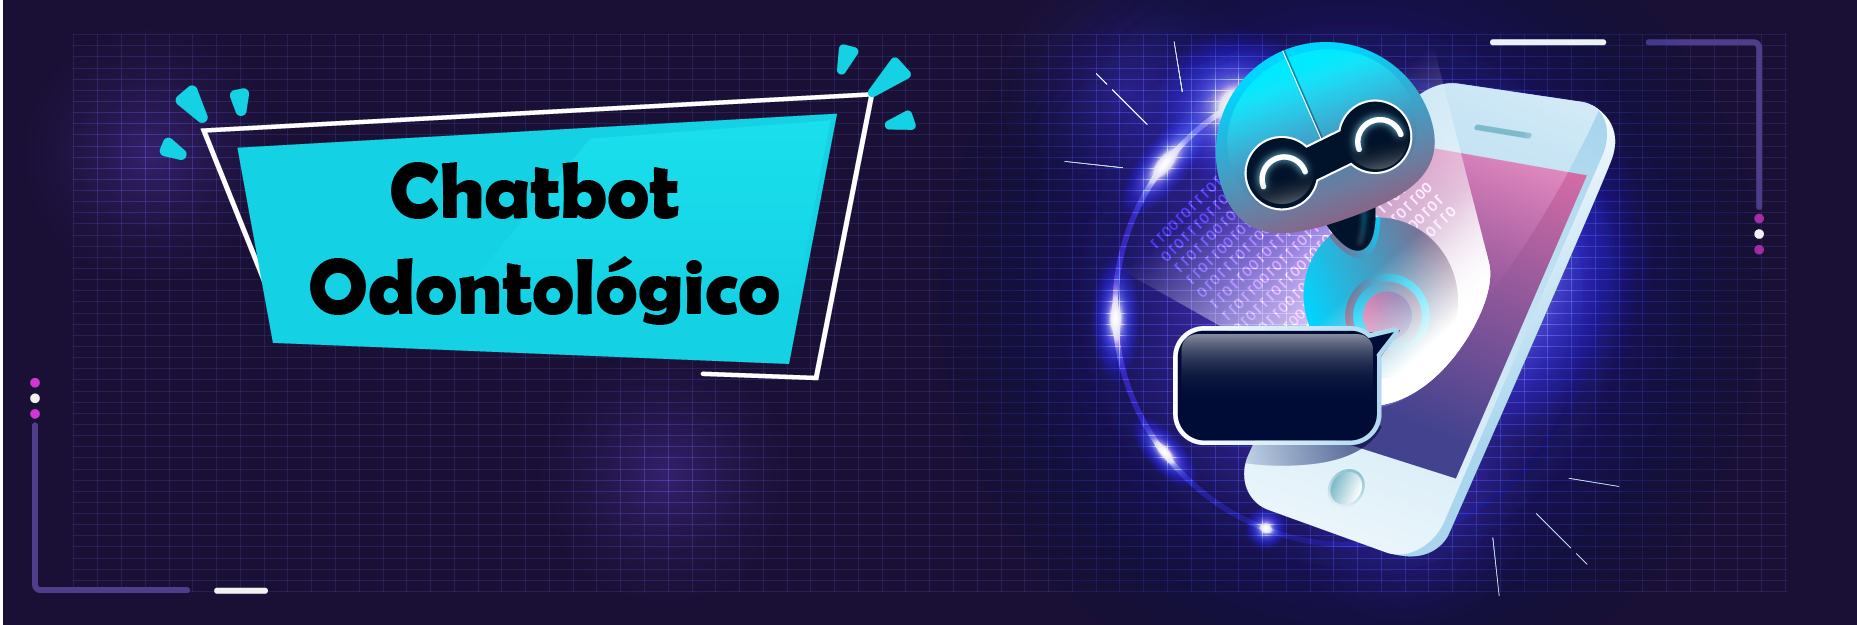
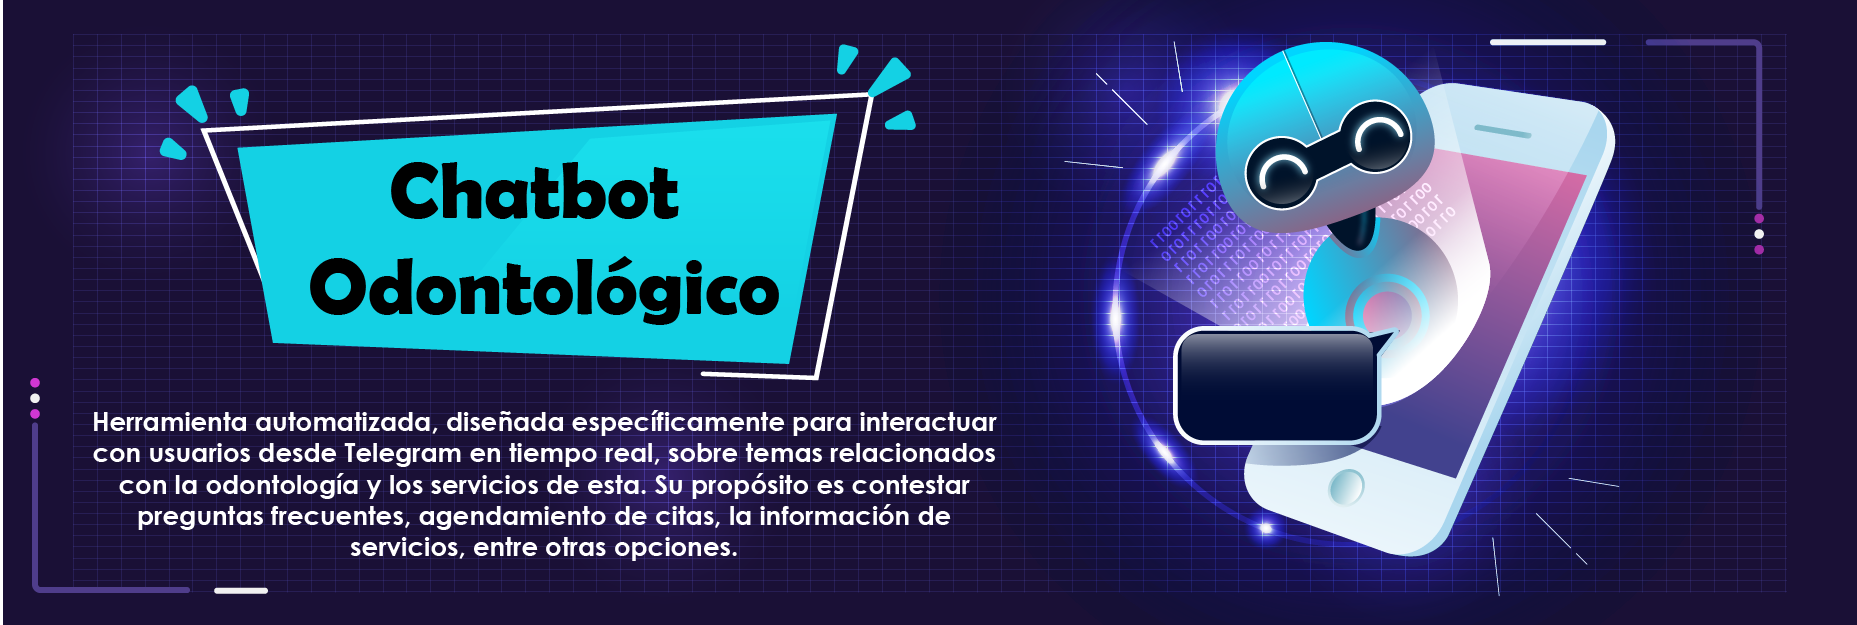
Actaulizacion Recurso 1 y cartas de presentación

Changed region(s): [[0.0312, 0.6688, 0.531, 0.912]]

diff --git a/src/app/cards/cards.page.html b/src/app/cards/cards.page.html
@@ -6,25 +6,42 @@
 
 <ion-content class="ion-padding" padding fullscreen>
   <h2>Bienvenido a Sección 1</h2>
-  <ion-button expand="full" href="/fivebot">Volver a Home</ion-button>
-
-  <ion-grid>  
+  
+  <!--<ion-grid fixed>  
     <ion-row> 
-      <ion-col size="12" >
+      <ion-col size="12" *ngFor="let c of [1,1,1 ];">
         <ion-card>
           <img alt="Silhouette of mountains" src="https://ionicframework.com/docs/img/demos/card-media.png" />
           <ion-card-header>
             <ion-card-title>Card Title</ion-card-title>
             <ion-card-subtitle>Card Subtitle</ion-card-subtitle>
           </ion-card-header>
-        
           <ion-card-content>
             Here's a small text description for the card content. Nothing more, nothing less.
           </ion-card-content>
         </ion-card>
       </ion-col>
     </ion-row>
+  </ion-grid>-->
+  
+  <ion-grid fixed>
+    <ion-row class="ion-justify-content-center">
+      <ion-col size="12" size-md="6" size-lg="4" *ngFor="let tarjeta of tarjetas">
+        <ion-card class="custom-card">
+          <img [src]="tarjeta.imagen" alt="Imagen de {{ tarjeta.titulo }}" />
+          <ion-card-header>
+            <ion-card-title>{{ tarjeta.titulo }}</ion-card-title>
+            <ion-card-subtitle>{{ tarjeta.subtitulo }}</ion-card-subtitle>
+          </ion-card-header>
+          <ion-card-content>
+            {{ tarjeta.descripcion }}
+          </ion-card-content>
+        </ion-card>
+      </ion-col>
+    </ion-row>
   </ion-grid>
+
+  <ion-button expand="full" href="/fivebot">Volver a Home</ion-button>
 
 </ion-content>
 

diff --git a/src/app/cards/cards.page.ts b/src/app/cards/cards.page.ts
@@ -16,5 +16,36 @@ export class CardsPage implements OnInit {
 
   ngOnInit() {
   }
-
+  tarjetas = [
+    {
+      titulo: "1Jardinería Inteligente",
+      subtitulo: "Monitorea tus plantas",
+      descripcion: "Usa sensores para saber cuándo regar.",
+      imagen: "https://ionicframework.com/docs/img/demos/card-media.png"
+    },
+    {
+      titulo: "2Cultivo Urbano",
+      subtitulo: "Siembra en casa",
+      descripcion: "Aprende técnicas de hidroponía y macetas.",
+      imagen: "https://ionicframework.com/docs/img/demos/card-media.png"
+    },
+    {
+      titulo: "3Plantas de interior",
+      subtitulo: "Cuidados esenciales",
+      descripcion: "Consejos para mantener tus plantas saludables.",
+      imagen: "https://ionicframework.com/docs/img/demos/card-media.png"
+    },
+    {
+      titulo: "4Jardinería Inteligente",
+      subtitulo: "Monitorea tus plantas",
+      descripcion: "Usa sensores para saber cuándo regar.",
+      imagen: "https://ionicframework.com/docs/img/demos/card-media.png"
+    },
+    {
+      titulo: "5Cultivo Urbano",
+      subtitulo: "Siembra en casa",
+      descripcion: "Aprende técnicas de hidroponía y macetas.",
+      imagen: "https://ionicframework.com/docs/img/demos/card-media.png"
+    }
+  ];
 }

diff --git a/src/app/cards/cards.page.scss b/src/app/cards/cards.page.scss
@@ -1,0 +1,9 @@
+.custom-card {
+    margin: 10px;
+    box-shadow: 0px 4px 10px rgba(0, 0, 0, 0.1);
+    border-radius: 10px;
+  }
+  
+  ion-grid {
+    padding: 10px;
+  }
